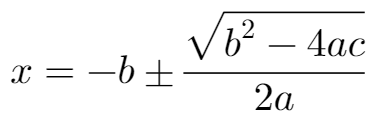
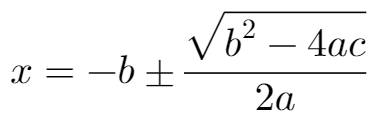
Follow TeX on italic corrections and bracket atom classes
Comparing against CSharpMath's committed renderings showed three gaps: no
kern after a character, a thin space after a function name, and a bracketed
group spacing as Inner on both sides rather than Open then Close.

diff --git a/examples/README.md b/examples/README.md
@@ -4,39 +4,39 @@ Generated by `dotnet run --project tools/RenderExamples -- examples` at 40 point
 
 | Name | Size | Rendering |
 |---|---|---|
-| Alphabets | 540×57 | ![Alphabets](Alphabets.png) |
-| Capitals | 773×57 | ![Capitals](Capitals.png) |
+| Alphabets | 554×57 | ![Alphabets](Alphabets.png) |
+| Capitals | 852×57 | ![Capitals](Capitals.png) |
 | CapitalGreeks | 713×51 | ![CapitalGreeks](CapitalGreeks.png) |
-| Greeks | 545×58 | ![Greeks](Greeks.png) |
-| Numbers | 220×49 | ![Numbers](Numbers.png) |
+| Greeks | 570×58 | ![Greeks](Greeks.png) |
+| Numbers | 221×49 | ![Numbers](Numbers.png) |
 | Commands | 365×60 | ![Commands](Commands.png) |
 | Exponential | 55×54 | ![Exponential](Exponential.png) |
 | ExponentWithFraction | 65×60 | ![ExponentWithFraction](ExponentWithFraction.png) |
-| ExponentWithPi | 71×54 | ![ExponentWithPi](ExponentWithPi.png) |
+| ExponentWithPi | 72×54 | ![ExponentWithPi](ExponentWithPi.png) |
 | ExponentWithProduct | 71×54 | ![ExponentWithProduct](ExponentWithProduct.png) |
 | Fraction | 60×103 | ![Fraction](Fraction.png) |
 | FractionNested | 147×130 | ![FractionNested](FractionNested.png) |
 | FractionWithRoot | 74×112 | ![FractionWithRoot](FractionWithRoot.png) |
-| FunctionDomainCodomain | 171×57 | ![FunctionDomainCodomain](FunctionDomainCodomain.png) |
+| FunctionDomainCodomain | 175×57 | ![FunctionDomainCodomain](FunctionDomainCodomain.png) |
 | IntPlusFraction | 109×103 | ![IntPlusFraction](IntPlusFraction.png) |
-| ItalicScripts | 349×74 | ![ItalicScripts](ItalicScripts.png) |
+| ItalicScripts | 361×74 | ![ItalicScripts](ItalicScripts.png) |
 | LeftRight | 94×106 | ![LeftRight](LeftRight.png) |
 | LeftRightMinus | 134×106 | ![LeftRightMinus](LeftRightMinus.png) |
-| LeftSide | 317×156 | ![LeftSide](LeftSide.png) |
-| LnEquation | 367×103 | ![LnEquation](LnEquation.png) |
-| Logic | 488×60 | ![Logic](Logic.png) |
+| LeftSide | 311×156 | ![LeftSide](LeftSide.png) |
+| LnEquation | 371×103 | ![LnEquation](LnEquation.png) |
+| Logic | 492×60 | ![Logic](Logic.png) |
 | Nothing | 20×20 | ![Nothing](Nothing.png) |
-| Phi | 44×57 | ![Phi](Phi.png) |
-| Pi | 43×39 | ![Pi](Pi.png) |
-| QuadraticFormula | 375×122 | ![QuadraticFormula](QuadraticFormula.png) |
+| Phi | 45×57 | ![Phi](Phi.png) |
+| Pi | 44×39 | ![Pi](Pi.png) |
+| QuadraticFormula | 377×122 | ![QuadraticFormula](QuadraticFormula.png) |
 | Radical | 74×63 | ![Radical](Radical.png) |
 | RadicalFraction | 143×112 | ![RadicalFraction](RadicalFraction.png) |
 | RadicalNested | 117×95 | ![RadicalNested](RadicalNested.png) |
 | RadicalNestedDeep | 366×243 | ![RadicalNestedDeep](RadicalNestedDeep.png) |
 | RadicalPower | 113×78 | ![RadicalPower](RadicalPower.png) |
 | RadicalSum | 143×63 | ![RadicalSum](RadicalSum.png) |
-| RightSide | 267×170 | ![RightSide](RightSide.png) |
-| TangentPeriodShift | 429×107 | ![TangentPeriodShift](TangentPeriodShift.png) |
+| RightSide | 268×170 | ![RightSide](RightSide.png) |
+| TangentPeriodShift | 424×107 | ![TangentPeriodShift](TangentPeriodShift.png) |
 | TwoSin | 96×48 | ![TwoSin](TwoSin.png) |
 | ModeMathAbsolute | 208×60 | ![ModeMathAbsolute](ModeMathAbsolute.png) |
 | ModeMathBoldVectors | 172×49 | ![ModeMathBoldVectors](ModeMathBoldVectors.png) |
